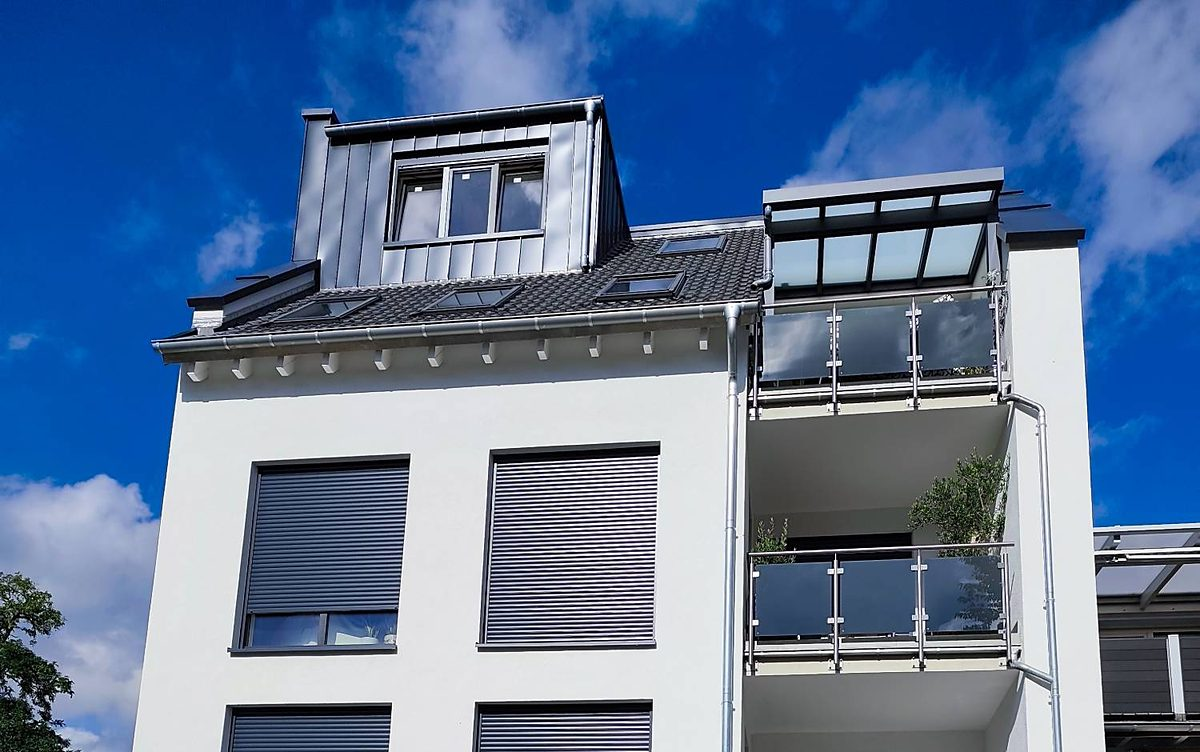
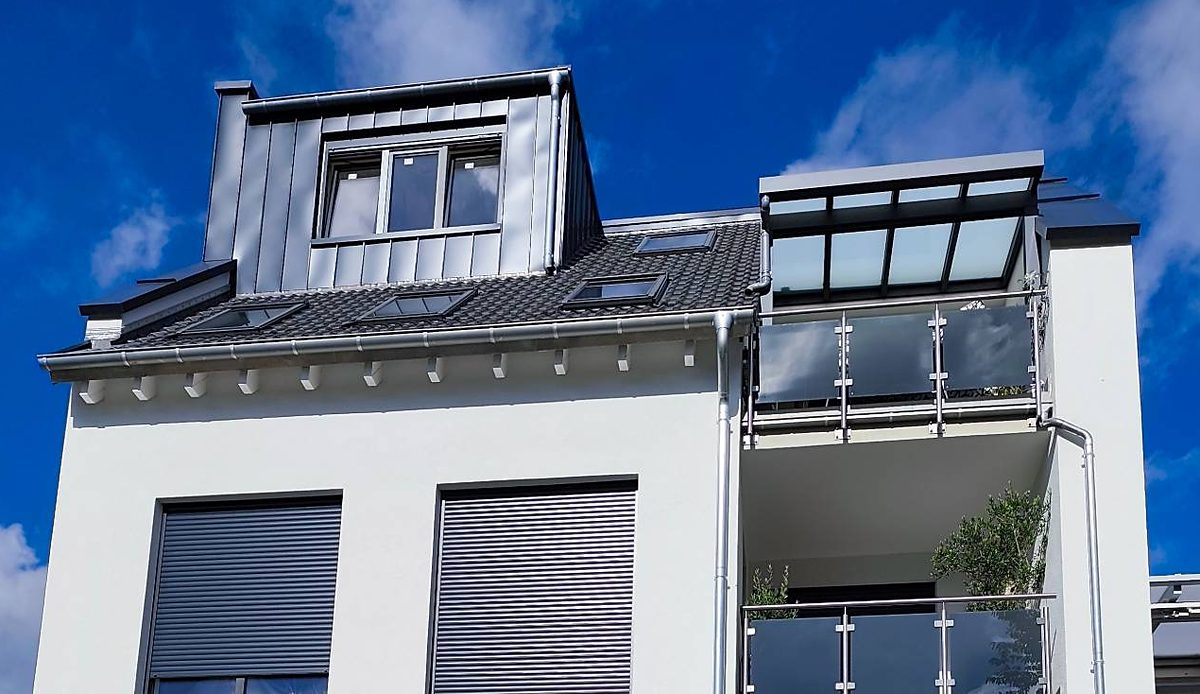
Messungen: Pruefplaketten wechseln nach dem E-Check, Haus groesser
Drei eigene Plaketten: DIN VDE 0100-600 (Erstpruefung), DIN VDE 0105-100
(Wiederholungspruefung), DGUV V3 (Geraete nach DIN VDE 0701-0702),
je 720 px, rund 27 KB, ganz gezeigt auf hellem Grund.
Hausfoto eng auf das Gebaeude geschnitten, 1,73:1, Himmel oben.
Gemessen bei 1440 und 390 px: Messkarte 0-1-2-3 in 12 Takten, immer nur
eine Karte im Wechsel, vergroesserte Karte vollstaendig, Bandhaelfte
2823 px -> Laufzeit 167 s, 0 kaputte Bilder, 0 Fehler.

Claude-Session: https://claude.ai/code/session_01N6FrTusWU2FFC5SiPW7rpE

diff --git a/index.html b/index.html
@@ -805,6 +805,11 @@
   /* Fotos mit Himmel oben am oberen Rand ausrichten, damit Dach und
      Himmel bei breiten Karten nicht abgeschnitten werden. */
   .service-img img.wechsel.lage-oben{object-position:50% 0;}
+  /* Pruefplaketten wechseln wie das E-Check-Zeichen: ganz gezeigt statt
+     beschnitten, auf dem hellen Grund der Bildflaeche, ohne Vergroesserung. */
+  .service-img img.wechsel.zeichen,
+  .service-card.ep-gross .service-img img.wechsel.zeichen{object-fit:contain;background:var(--grey-100);}
+  .service-card:hover .service-img img.wechsel.zeichen{transform:none;}
   .service-shade{z-index:3;}
   .service-card.ep-gross .service-img img.wechsel{height:100%;object-fit:cover;}
   .service-body{position:relative;padding:clamp(9px,calc(var(--sh) * 1.4),34px) clamp(18px,2vw,34px) clamp(10px,calc(var(--sh) * 1.5),38px);display:flex;flex-direction:column;gap:clamp(5px,calc(var(--sh) * 0.9),12px);flex:1;}
@@ -841,7 +846,7 @@
      168 s wurden erwogen, um das Tempo von vor der Hoehenaenderung
      wiederherzustellen, und verworfen: bei 8 bis 12 px/s merkt kaum jemand
      noch, dass sich etwas bewegt. */
-  .marquee-track.slow{animation-duration:166s;}
+  .marquee-track.slow{animation-duration:167s;}
   /* Die Laufzeit haengt an der Breite einer Gruppe, damit das Band immer
      gleich schnell laeuft, egal wie viele Marken drinstehen. Massstab sind
      die urspruenglichen elf Namen: 1687 Pixel in 54 Sekunden, also rund 31
@@ -1442,6 +1447,9 @@
     <div class="service-card" data-reveal>
       <div class="service-img">
         <img class="karte-zeichen" src="echeck-zeichen.png" alt="E-CHECK — Geprüft nach VDE. Nur bei Ihrem Innungsfachbetrieb." loading="lazy">
+        <img class="wechsel zeichen" src="pruefzeichen-vde-0100-600.png" alt="Prüfplakette: geprüft nach DIN VDE 0100-600, Erstprüfung" loading="lazy">
+        <img class="wechsel zeichen" src="pruefzeichen-vde-0105-100.png" alt="Prüfplakette: geprüft nach DIN VDE 0105-100, Wiederholungsprüfung ortsfester Anlagen" loading="lazy">
+        <img class="wechsel zeichen" src="pruefzeichen-dguv-v3.png" alt="Prüfplakette: geprüft nach DGUV Vorschrift 3, Geräte nach DIN VDE 0701-0702" loading="lazy">
         <div class="service-shade"></div>
       </div>
       <div class="service-body">

diff --git a/docs/ARBEITSSTAND.md b/docs/ARBEITSSTAND.md
@@ -239,12 +239,14 @@ sechs Detailpunkte aus.
 18 verschiedene Bilder (nachgezaehlt am 13.10.2026; die frueher hier stehenden
 13 waren veraltet), **jedes zweimal eingebunden** (das Band wird
 verdoppelt, damit es nahtlos umlaeuft) — 36 Bildplaetze. Laufzeit steht in
-`.marquee-track.slow{animation-duration:166s}`. Am 13.10.2026 kamen drei
+`.marquee-track.slow{animation-duration:167s}`. Am 13.10.2026 kamen drei
 eigene Projektfotos dazu (Haus, Klingelanlage, Wolf-Waermepumpe); die
 Laufzeit wurde dafuer von 140 auf 168 s verlaengert (140 x 18/15), damit
 das Tempo gleich bleibt. Danach wurde das Hausfoto hoeher geschnitten
 (1,6:1 statt 2:1, mit Himmel); die Bandhaelfte schrumpfte bei 1440 px von
 2844 auf 2812 px, die Laufzeit deshalb 168 x 2812/2844 = 166 s.
+Noch einmal enger geschnitten (Haus fuellt die Breite, 1,73:1): Bandhaelfte
+2823 px, Laufzeit 166 x 2823/2812 = 167 s.
 
 Das Band wurde auf Wunsch um ein Fuenftel hoeher gemacht, die Laufzeit blieb
 gleich — dadurch laeuft es **19,7 % schneller** als vorher. 168 s wuerden das
@@ -259,6 +261,8 @@ Damit sie nicht in jeder Sitzung neu erfragt werden.
 
 | Datum | Entscheidung | Begruendung |
 |---|---|---|
+| 13.10.2026 | **Messungen-Karte: nach dem E-Check wechseln drei eigene Pruefplaketten** -- DIN VDE 0100-600 (Erstpruefung), DIN VDE 0105-100 (Wiederholungspruefung ortsfester Anlagen), DGUV V3 (Geraete nach DIN VDE 0701-0702). Eigene Gestaltung in Anthrazit/Gelb mit Monats- und Jahresring und „Elektrotechnik Paulus“, keine fremden Zeichen. Dateien `pruefzeichen-*.png`, 720 px, je rund 27 KB. Klasse `.wechsel.zeichen`: ganz gezeigt, auf hellem Grund, ohne Vergroesserung | Auf Wunsch Irfan („Messungen nach diesem E-Check“). Die genannte „VDE 0100-5100“ gibt es nicht; die Wiederholungspruefung ortsfester Anlagen steht in DIN VDE 0105-100. Fotos aus dem Netz gehen weiter nicht (Abschnitt 4, 27.09.2026). Gemessen bei 1440 und 390 px: 12 Takte, Messkarte laeuft 0-1-2-3, immer nur eine Karte wechselt; vergroesserte Karte zeigt die Plakette vollstaendig; 0 kaputte Bilder, 0 Fehler |
+| 13.10.2026 | **Hausfoto noch groesser:** eng auf das Gebaeude geschnitten (1,73:1), oben ein Streifen Himmel | Auf Wunsch „so gross wie es geht“ |
 | 13.10.2026 | **Hausfoto hoeher geschnitten: Himmel, Dach und Gaube sichtbar** -- 1,6:1 statt 2:1, in der Leistungskarte oben ausgerichtet (`.wechsel.lage-oben`); Band-Laufzeit 168 -> 166 s | Auf Wunsch Irfan: „Gebaeude groesser, dass man den Himmel noch sieht“. Kartenbild gemessen: 1,73:1 bei 1440 px, 1,95:1 bei 1920 px, 1,52:1 bei 390 px -- bei allen drei steht der Himmel ueber der Gaube. Bandhaelfte 2812/2812 px, 0 kaputte Bilder, 0 Fehler |
 | 13.10.2026 | **Die drei Projektfotos laufen auch im Bilderband „Aus dem Arbeitsalltag“ mit** -- Haus nach der Steckdose, Klingelanlage nach dem Trennschleifer, Wolf-Waermepumpe nach der Montage; Laufzeit 140 -> 168 s, Tempo unveraendert | Auf Wunsch Irfan. Gemessen bei 1440 und 390 px: 36 Bildplaetze, alle gleich breit (156 bzw. 106 px), beide Bandhaelften gleich lang (2844 bzw. 1937 px, also nahtloser Umlauf), 0 kaputte Bilder, 0 Fehler |
 | 13.10.2026 | **Leistungskarten zeigen wechselnde Projektfotos.** Weitere Fotos liegen als `<img class="wechsel">` ueber dem ersten Bild; reihum wechselt immer nur eine Karte, alle 4 s, Ueberblendung 1,6 s. Unter der Maus oder vergroessert bleibt eine Karte stehen, bei `prefers-reduced-motion` gibt es keinen Wechsel | Auf Wunsch Irfan: eigene Fotos zeigen, nach und nach mehr dazunehmen, „nacheinander, nicht alles auf einmal“. Erste Fotos aus dem fertigen Projekt Mehrfamilienhaus (Bauherr einverstanden): Haus bei Elektroinstallation, Wolf-Waermepumpe bei Waermepumpe, Klingel-/Briefkastenanlage bei Tuersprechanlage. Namensschilder durch leere Schilder ersetzt, Hausnummer und Spiegelbild weggeschnitten. Gebaut auf `claude/affectionate-thompson-uq3amz` aus diesem Arbeitsbranch, dort noch nicht uebernommen. Gemessen bei 1440 und 390 px: Wechselfolge 6 Takte je Karte einzeln, 0 kaputte Bilder, 0 Konsolenfehler; Waermepumpe 9 s unter der Maus ohne Wechsel |
